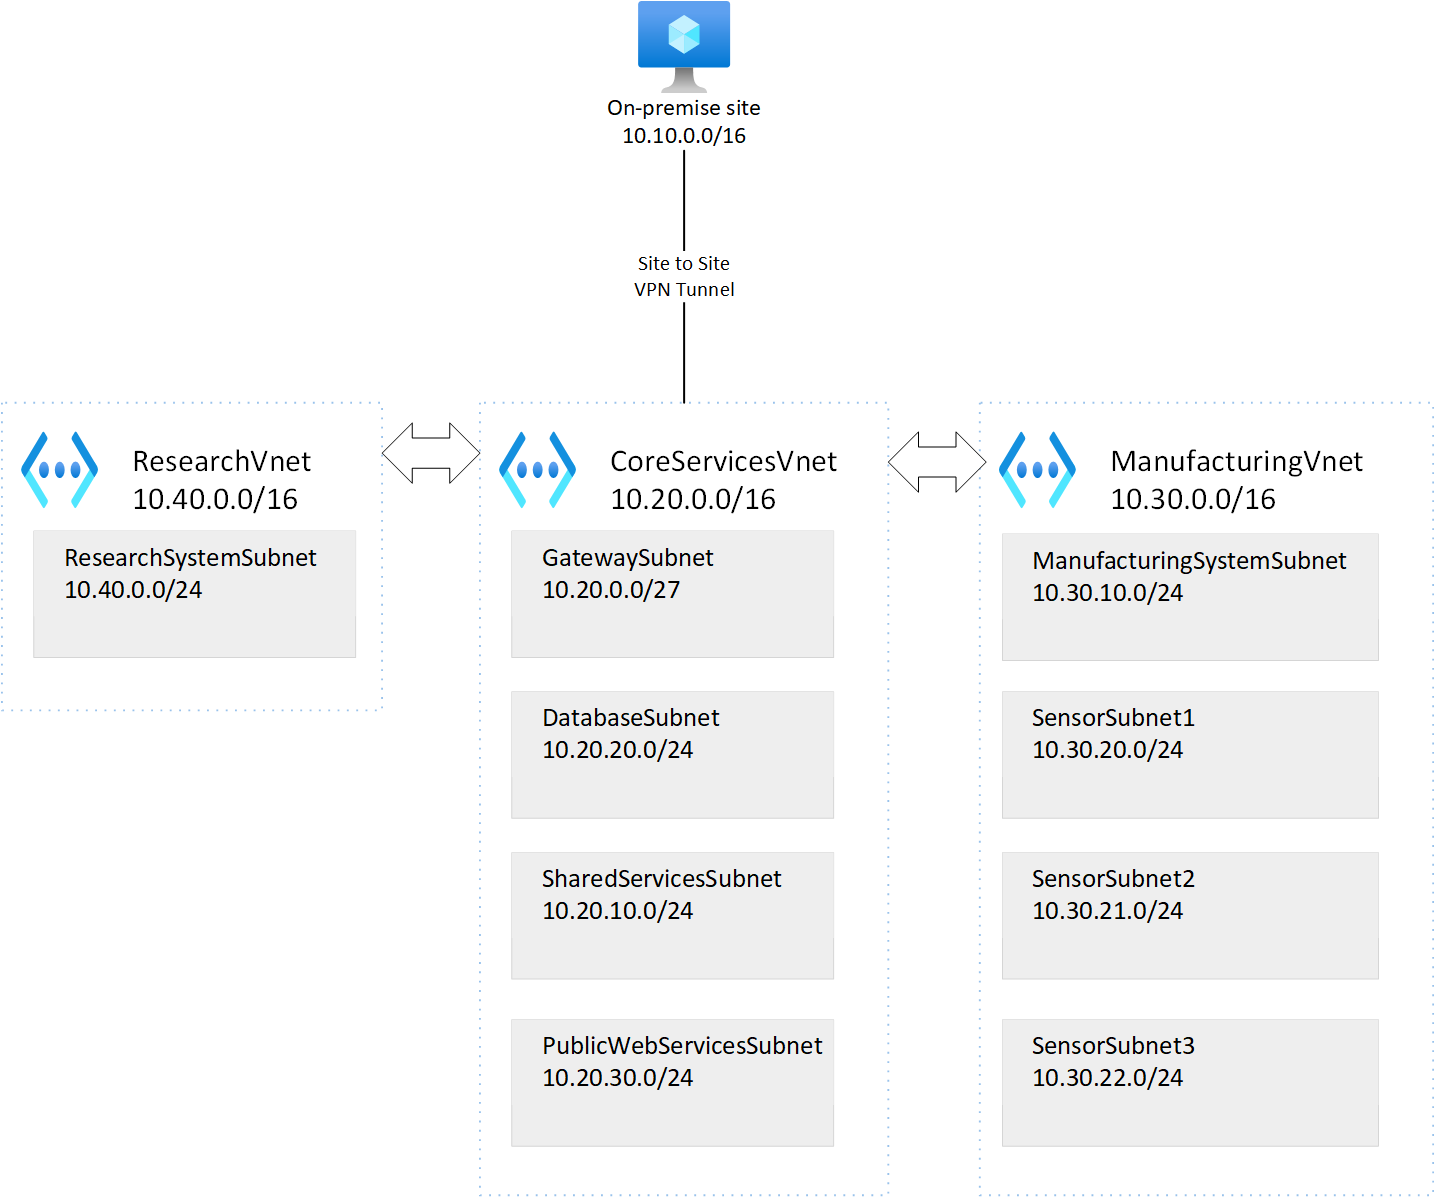
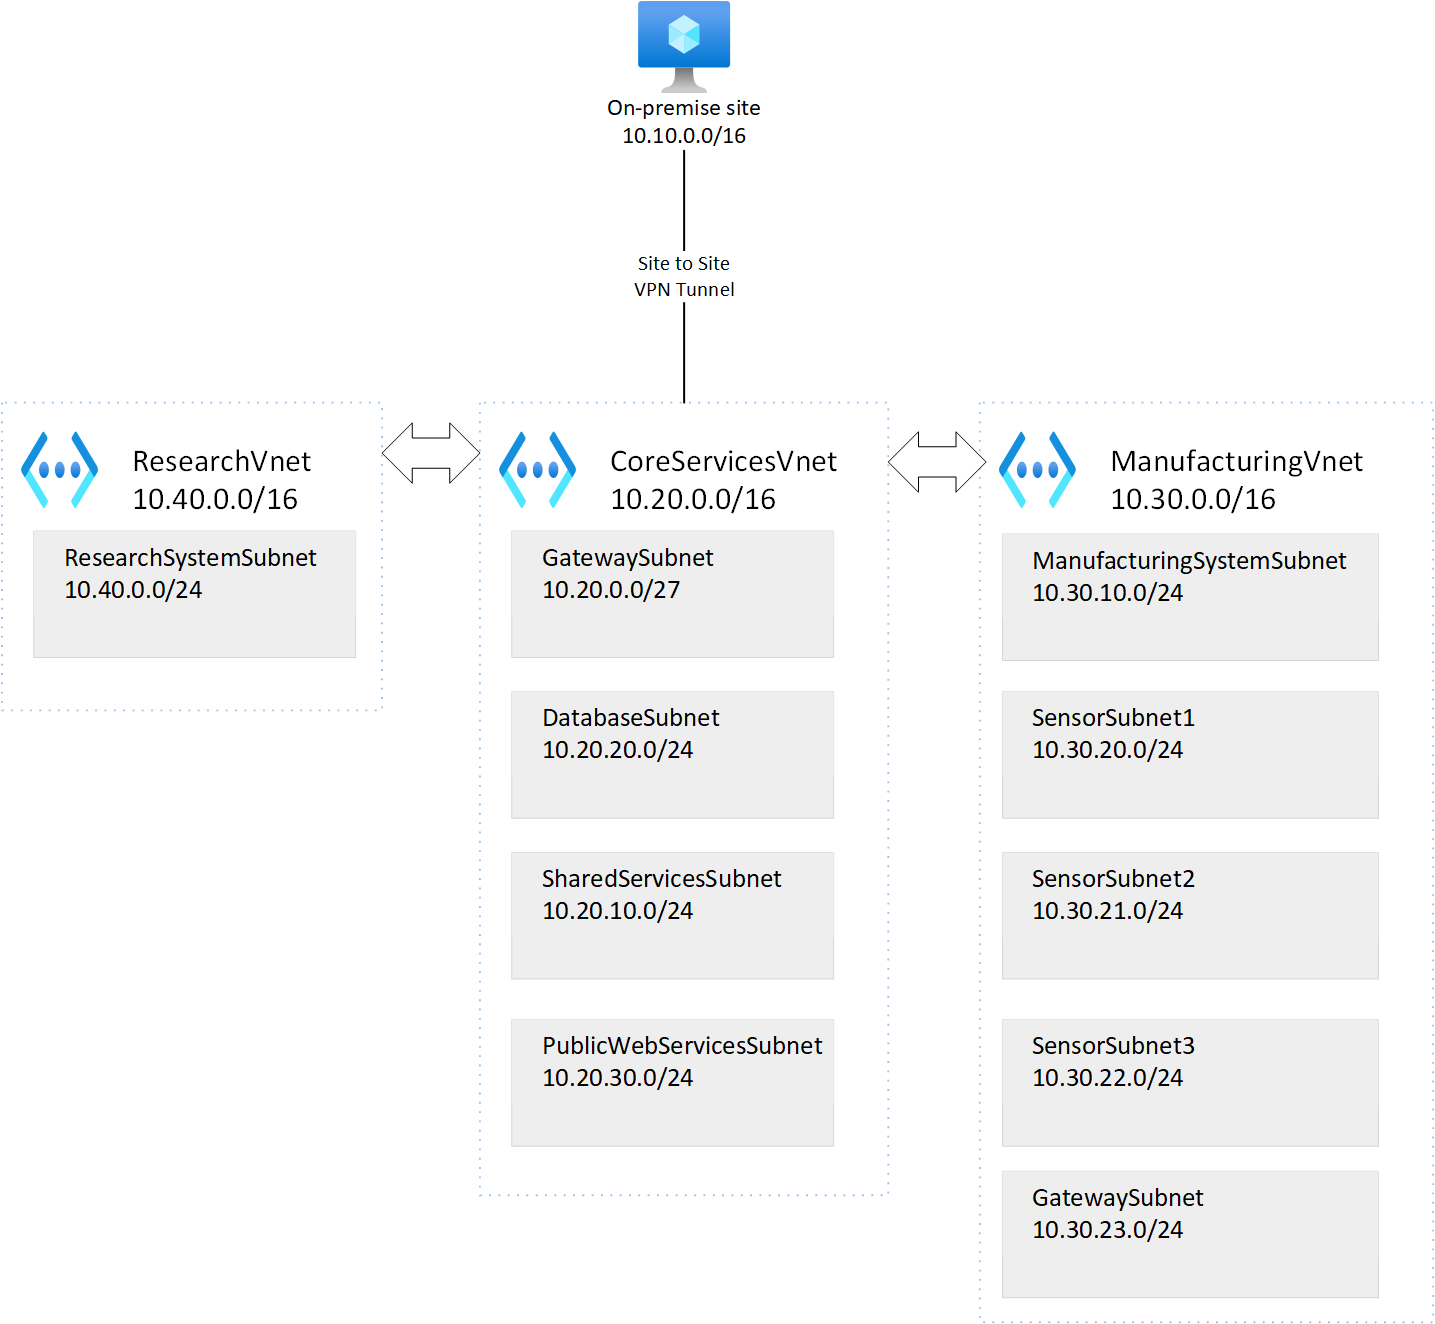
Added vnet-to-vnet gateway exercise

diff --git a/README.md b/README.md
@@ -5,7 +5,9 @@ This readme contains the Azure CLI commands I used to create each lab environmen
 I wanted to use the Azure CLI, so I can deploy and destroy resources quickly within my subscription. 
 
 ## Lab Environment via the portal
-This video by Susanth Sutheesh describes how resources are deployed via the portal https://www.youtube.com/watch?v=DFdOi0QVso4  - I would recommend viewing this video, as part of your preparation for AZ-700. As a DevOps engineer, I have followed the excellant instructions in the youtube video and produced Azure CLI commands for each task.
+This video by Susanth Sutheesh describes how resources are deployed via the portal https://www.youtube.com/watch?v=DFdOi0QVso4  - I would recommend viewing this video, as part of your preparation for AZ-700. As a DevOps engineer, I have followed the excellent instructions in the YouTube video and produced Azure CLI commands for each task.
+
+I would suggest looking at the all the available parameters available using the Microsoft Azure CLI documentation, as you run each Azure CLI command.
 
 ## Virtual Networks
 
@@ -117,6 +119,16 @@ az network vnet subnet create --name $subnet_name `
 # Deploy SensorSubnet3
 $subnet_name="SensorSubnet3"
 $subnet_prefixes="10.30.22.0/24"
+
+az network vnet subnet create --name $subnet_name `
+   --address-prefixes $subnet_prefixes `
+   --vnet-name $vnet_name `
+   --resource-group $resource_group_name
+
+# Deploy Gateway Subnet
+$subnet_name="GatewaySubnet"
+$subnet_prefixes="10.30.23.0/27"
+$vnet_name="ManufacturingVnet"
 
 az network vnet subnet create --name $subnet_name `
    --address-prefixes $subnet_prefixes `
@@ -332,6 +344,7 @@ az network vnet peering delete `
     --name $name `
     --vnet-name $vnet_name
 
+
 # Create Public IP for Gateway
 $name="CoreServicesGatewayPublicIP"
 $resource_group_name="rg-az700-cli"
@@ -358,7 +371,7 @@ $publicIP="CoreServicesGatewayPublicIP"
 az network vnet-gateway create `
    --name $name `
    --public-ip-addresses $publicIP `
-   --resource-group $resource_group_name="rg-az700-cli" `
+   --resource-group $resource_group_name `
    --vnet $vnet `
    --location $location `
    --vpn-type $vpn_type `
@@ -392,15 +405,102 @@ $publicIP="ManufacturingGatewayPublicIP"
 az network vnet-gateway create `
    --name $name `
    --public-ip-addresses $publicIP `
-   --resource-group $resource_group_name="rg-az700-cli" `
+   --resource-group $resource_group_name `
    --vnet $vnet `
    --location $location `
    --vpn-type $vpn_type `
    --sku $sku `
    --gateway-type $gateway_type `
    --vpn-gateway-generation $generation
+
+$gateway_name1       = "CoreServicesVnetGateway"
+$gateway_name2       = "ManufacturingVnetGateway"
+$name                = "CoreServicesGW-to-ManufacturingGW"
+$resource_group_name = "rg-az700-cli"
+$location            = "EastUS"
+$shared_key          = "InProdThisShouldBeStoredInKeyVault!1"
+
+$gateway_id1         = az network vnet-gateway show --name $gateway_name1 --resource-group $resource_group_name --query "id" -o tsv
+$gateway_id2         = az network vnet-gateway show --name $gateway_name2 --resource-group $resource_group_name --query "id" -o tsv
+
+
+az network vpn-connection create `
+   --name $name `
+   --vnet-gateway1 $gateway_id1 `
+   --resource-group $resource_group_name `
+   --vnet-gateway2 $gateway_id2 `
+   --location $location `
+   --shared-key $shared_key 
+
+$gateway_name1       = "ManufacturingVnetGateway"
+$gateway_name2       = "CoreServicesVnetGateway"
+$name                = "ManufacturingGW-to-CoreServicesGW"
+$resource_group_name = "rg-az700-cli"
+$location            = "WestEurope"
+$shared_key          = "InProdThisShouldBeStoredInKeyVault!1"
+
+$gateway_id1         = az network vnet-gateway show --name $gateway_name1 --resource-group $resource_group_name --query "id" -o tsv
+$gateway_id2         = az network vnet-gateway show --name $gateway_name2 --resource-group $resource_group_name --query "id" -o tsv
+
+az network vpn-connection create `
+   --name $name `
+   --vnet-gateway1 $gateway_id1 `
+   --resource-group $resource_group_name `
+   --vnet-gateway2 $gateway_id2 `
+   --location $location `
+   --shared-key $shared_key 
+
+# Wait until the connections in each gateway are showwing as connected
+# Then, start up a vm in each region and try to ping the other region. You should be able to ping devices
+
+# This completes this exercise, you have created a global VNET-to-VNET connection using two VPN gateways
+# The following command will delete the vpn gateways and connections
+
+$name                = "CoreServicesGW-to-ManufacturingGW"
+$resource_group_name = "rg-az700-cli"
+
+az network vpn-connection delete `
+   --name $name `
+   --resource-group $resource_group_name
+
+$name                = "ManufacturingGW-to-CoreServicesGW"
+$resource_group_name = "rg-az700-cli"
+
+az network vpn-connection delete `
+   --name $name `
+   --resource-group $resource_group_name
+
+# Now delete gateways
+# At 04/10/20202, the next two Azure CLI commands didn't work. They didn't delete the gateways. I ended up deleting the gateways through the portal
+
+$gateway_name1       = "CoreServicesVnetGateway"
+$gateway_name2       = "ManufacturingVnetGateway"
+
+$gateway_id1         = az network vnet-gateway show --name $gateway_name1 --resource-group $resource_group_name --query "id" -o tsv
+
+az network vpn-gateway delete --ids $gateway_id1
+
+$gateway_id2         = az network vnet-gateway show --name $gateway_name2 --resource-group $resource_group_name --query "id" -o tsv
+
+az network vpn-gateway delete --ids $gateway_id2
+
+# Once gateways have been deleted, you can delete public ips
+
+$name="CoreServicesGatewayPublicIP"
+$resource_group_name="rg-az700-cli"
+
+az network public-ip delete `
+   --name $name `
+   --resource-group $resource_group_name
+
+$name="ManufacturingGatewayPublicIP"
+$resource_group_name="rg-az700-cli"
+
+az network public-ip delete `
+   --name $name `
+   --resource-group $resource_group_name
+
 ```
 
-
-
 ### Create a virtual WAN 
+
